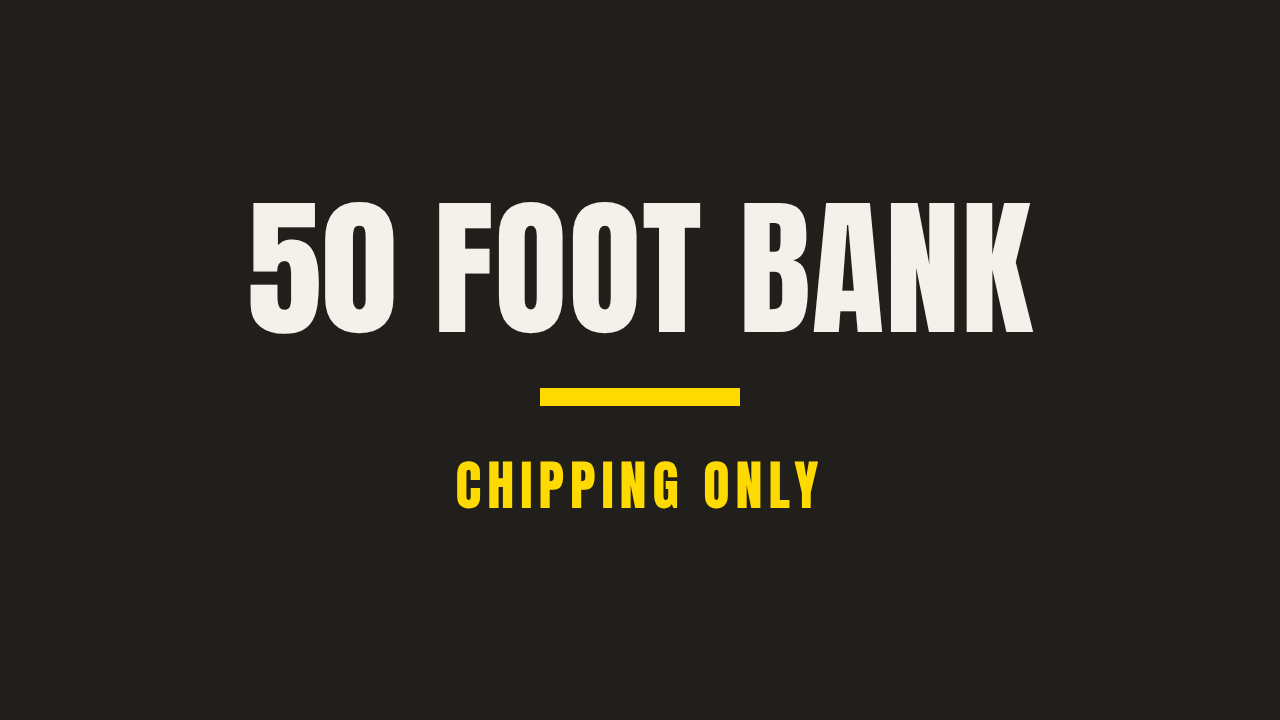
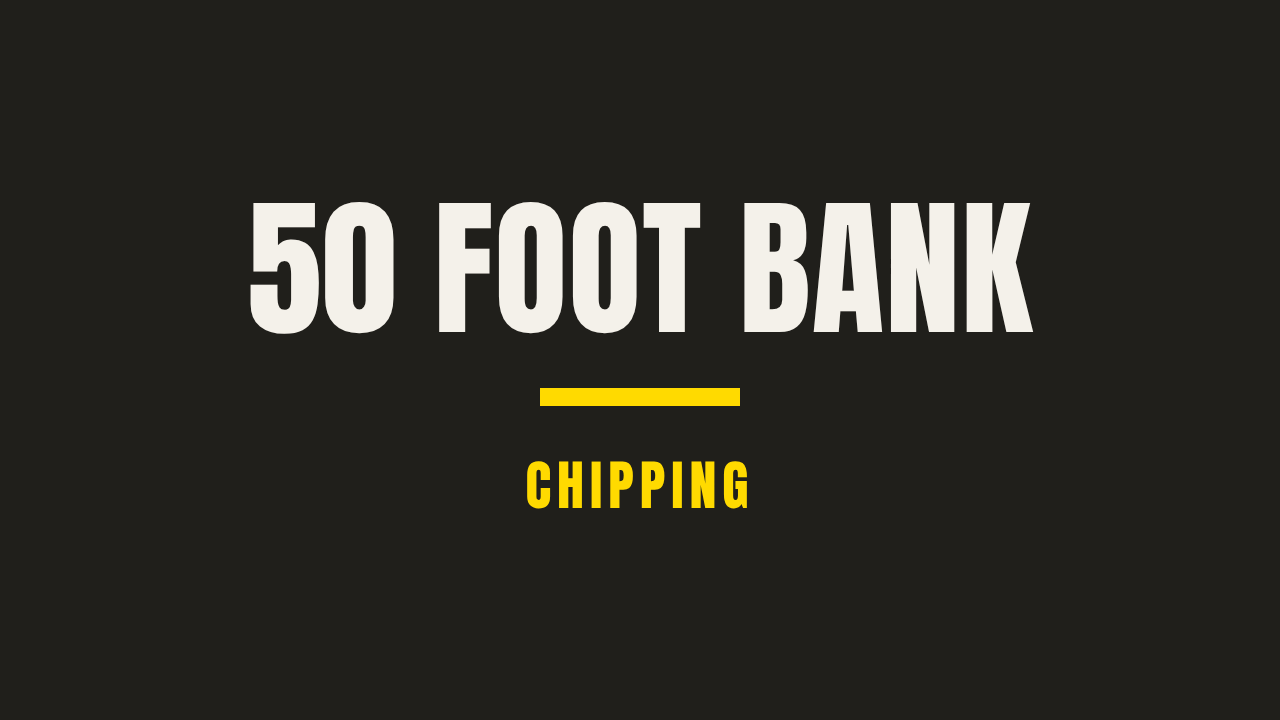
Wedge games: descriptions Chipping / Chipping and putting / Pitching (thumbnails and first screen)
Claude-Session: https://claude.ai/code/session_01DkSaFspKHERjZZRZYzDpGf

Changed region(s): [[0.3438, 0.6417, 0.6562, 0.7028]]

diff --git a/pages/golf-wedge-darts.html b/pages/golf-wedge-darts.html
@@ -323,7 +323,7 @@ body.gated{overflow:hidden}
   <svg class="logo" role="img" aria-label="Macro Golf" viewBox="0 0 1000 540" width="63" height="34"><path id="mgLogoP" fill="#FFD900" fill-rule="evenodd" d="M400 538.9C326 530.5 262.6 470.4 250 396.4C240.3 339.9 255.7 284.9 292.3 245.4L300.7 236.3L295 200.9C291.8 181.4 289.1 164.6 288.8 163.5C288.3 161.1 293.2 150.6 235 278.7C209.4 334.9 188.2 381 187.9 381C187.6 381 165.6 331.7 139 271.5C112.4 211.3 90.3 162.3 90 162.8C89.6 163.2 81.3 209.1 71.4 264.7L53.5 366L26.7 366C1.6 366 -0.1 365.9 0.4 364.2C0.9 362.6 45.4 135.6 63.2 43.8C67.8 20.3 71.7 1 72 1C72.3 1 98.6 60.2 130.5 132.5C162.3 204.8 188.7 263.6 189.1 263.2C189.5 262.8 216.7 203.6 249.6 131.6C297.5 26.9 309.6 1.3 310.2 3.1C310.6 4.4 318.6 49.6 328 103.5C337.4 157.4 345.3 202.1 345.5 202.7C345.8 203.6 347.9 203.1 352.5 201C398.4 180.4 459.4 181.9 502.9 204.6C521 214 542.2 230.7 557.7 247.8L564.8 255.6L546.9 272.8C537.1 282.3 528.7 290 528.3 290C527.8 290 525.5 287.5 523.1 284.5C510.8 269.1 490.7 252.9 474.8 245.5C445.1 231.8 407.3 231.5 375.5 244.7C368.3 247.7 355 255.2 355 256.3C355 256.7 359.3 281.3 364.5 310.9C369.7 340.6 374 365.1 374 365.4C374 365.7 362.2 366 347.7 366L321.4 366L317.1 338.8C311.2 301.6 312 304 308.3 313C297.6 338.6 296 373.3 304 402C315.4 442.5 355.2 479.3 398.3 489.2C412.4 492.5 434 492.2 447.5 488.6C474.8 481.4 500.4 462.1 513.4 438.7C517.3 431.7 522.5 416.9 523.5 409.8L524.1 405L481.8 404.8L439.5 404.5L439.2 380.2L439 356L509.6 356L580.3 356L579.7 374.8C578 430.3 565.2 463.1 532.9 495C498.5 529.1 451.3 544.7 400 538.9ZM651 383.5C617.4 376.3 591.1 352.5 581.4 320.5C577.6 307.9 577.2 281.9 580.8 269.7C588 244.6 607.9 221.6 631.5 210.9C653.4 201 681.3 200.3 704 209.1C725.1 217.2 745.9 237.8 754.9 259.5C765.8 285.6 763.2 318.5 748.5 341.6C736.2 360.9 714.4 376.9 693 382.5C684.1 384.8 659.8 385.4 651 383.5ZM795 294L795 206L808.5 206L822 206L822 281.5L822 357L847.5 357L873 357L873 369.5L873 382L834 382L795 382L795 294ZM898.2 294.2L898.5 206.5L942.2 206.2L986 206L986 218.5L986 231L955.5 231L925 231L925 252L925 273L954.5 273L984 273L984 285.5L984 298L954.5 298L925 298L925 340L925 382L911.5 382L898 382L898.2 294.2ZM686.4 358C724.3 348.3 744.9 305.8 730.1 268.2C723.3 250.9 707.9 236.8 689 230.4C680.3 227.4 659 227.7 649.1 230.9C630.7 237 614 253.7 607.9 272.2C604.7 282 604.4 305.3 607.4 314C613.7 332.4 624.6 345 641.3 353.6C654.2 360.2 671.3 361.9 686.4 358ZM586 182.1C565.8 177.7 547.9 166.4 534.6 149.9C498.3 104.4 515 34.7 568.1 10.1C580.4 4.4 587.5 2.8 603.3 2.3C621.9 1.6 631.3 3.4 646.8 10.7L654 14.1L654 30L654 46L648.8 41.9C641.6 36.5 629 30.4 620.5 28.4C610.9 26.2 593.9 26.9 585.3 30C548.6 42.9 531.3 87.8 549.1 124C554.8 135.4 566.1 146.9 577 152.2C600.1 163.6 625.2 161 646.2 145.1C649.9 142.3 653.2 140 653.5 140C653.8 140 653.9 147.1 653.8 155.8L653.5 171.5L647 174.7C629.6 183.2 604.8 186.2 586 182.1ZM887 182.1C863.5 177 839.1 159.6 827.2 139.4C815.8 120.1 812.1 92.3 818 69.5C826.4 37 855 10.3 888.9 3.5C899.3 1.4 922.1 1.9 931.5 4.5C964.6 13.6 991.7 43.4 997.6 77.2C1005.7 123.4 978.2 167 932.3 180.6C920.2 184.2 899.5 184.9 887 182.1ZM350.4 181.3C354.1 171.8 433.5 3.1 434.1 3.7C434.5 4.1 452.7 44.3 474.5 93C496.4 141.7 514.4 181.8 514.7 182.2C514.9 182.7 508.7 183 500.8 183L486.5 183L477.9 162.7L469.2 142.5L432.5 142.5L395.8 142.5L386.7 162.7L377.5 182.9L363.6 183C351 183 349.8 182.9 350.4 181.3ZM687 92.9L687 4.8L712.8 5.3C741.5 5.8 747.8 6.8 759.5 12.3C770.7 17.7 778.1 26 783 38.5C786.4 47.3 786.5 64.6 783.1 74.3C778.8 86.9 767.8 98.6 756 103.1C753 104.2 749.8 105.5 748.9 105.8C747.7 106.4 753.2 114.5 774.2 143.3C788.9 163.6 801 180.3 801 180.6C801 180.8 793.7 180.9 784.8 180.8L768.6 180.5L743.9 145C723.5 115.8 718.6 109.4 716.5 109.2L714 108.9L714 144.9L714 181L700.5 181L687 181L687 92.9ZM927 156.2C946.1 150 961.9 134.3 968.7 114.8C972.1 105.2 972.9 89 970.6 78C965.7 54.4 946.9 34.7 923.9 28.9C912.4 25.9 895.7 26.5 885.3 30.2C848.6 43.2 831.4 86.7 848.7 123C855.8 137.9 873.7 152.6 890.1 157C899.9 159.7 917.4 159.3 927 156.2ZM458 117.4C458 115.3 433.5 61.1 432.9 61.7C432.2 62.4 407 116.9 407 117.7C407 117.9 418.5 118 432.5 118C446.5 118 458 117.7 458 117.4ZM741.3 83C754.2 79 760.9 68.7 759.8 54.5C758.5 38.4 748.4 31.2 725.8 30.2L714 29.7L714 58L714 86.3L724.2 85.7C730.3 85.4 737.3 84.2 741.3 83Z"/></svg>
   <div class="bar"></div>
   <h2>Wedge Darts<span>Before you start</span></h2>
-  <span class="gtag">Wedges – pitching</span>
+  <span class="gtag">Pitching</span>
   <label class="fld"><span>Your name</span><input id="gName" autocomplete="name" placeholder="First and last name"></label>
   <label class="fld"><span>Target handicap</span><select id="gHc"><option value="">Choose a target</option><option value="Tour">Tour</option><option value="0">Scratch</option><option value="5">5</option><option value="10">10</option><option value="15">15</option><option value="20">20</option><option value="25">25</option><option value="30">30</option></select></label>
   <div class="fld" id="gLvlWrap"><span>Scoring zones</span><div class="opts" id="gLvl"><button type="button" data-v="std" aria-pressed="false"><b>Standard</b><small>3 / 6 / 9 yds, 8 yds left/right. Recommended for most players</small></button><button type="button" data-v="tight" aria-pressed="false"><b>Tight</b><small>2 / 4 / 6 yds, 4 yds left/right. For single-figure players</small></button></div><span class="note" id="gLvlNote" hidden>Game in progress, so the difficulty stays as it is until you start a new one.</span></div>

diff --git a/pages/golf-fifty-ft-bank.html b/pages/golf-fifty-ft-bank.html
@@ -335,7 +335,7 @@ td.up b{color:#1FA855}td.down b{color:#E0352B}
   <svg class="logo" role="img" aria-label="Macro Golf" viewBox="0 0 1000 540" width="63" height="34"><path id="mgLogoP" fill="#FFD900" fill-rule="evenodd" d="M400 538.9C326 530.5 262.6 470.4 250 396.4C240.3 339.9 255.7 284.9 292.3 245.4L300.7 236.3L295 200.9C291.8 181.4 289.1 164.6 288.8 163.5C288.3 161.1 293.2 150.6 235 278.7C209.4 334.9 188.2 381 187.9 381C187.6 381 165.6 331.7 139 271.5C112.4 211.3 90.3 162.3 90 162.8C89.6 163.2 81.3 209.1 71.4 264.7L53.5 366L26.7 366C1.6 366 -0.1 365.9 0.4 364.2C0.9 362.6 45.4 135.6 63.2 43.8C67.8 20.3 71.7 1 72 1C72.3 1 98.6 60.2 130.5 132.5C162.3 204.8 188.7 263.6 189.1 263.2C189.5 262.8 216.7 203.6 249.6 131.6C297.5 26.9 309.6 1.3 310.2 3.1C310.6 4.4 318.6 49.6 328 103.5C337.4 157.4 345.3 202.1 345.5 202.7C345.8 203.6 347.9 203.1 352.5 201C398.4 180.4 459.4 181.9 502.9 204.6C521 214 542.2 230.7 557.7 247.8L564.8 255.6L546.9 272.8C537.1 282.3 528.7 290 528.3 290C527.8 290 525.5 287.5 523.1 284.5C510.8 269.1 490.7 252.9 474.8 245.5C445.1 231.8 407.3 231.5 375.5 244.7C368.3 247.7 355 255.2 355 256.3C355 256.7 359.3 281.3 364.5 310.9C369.7 340.6 374 365.1 374 365.4C374 365.7 362.2 366 347.7 366L321.4 366L317.1 338.8C311.2 301.6 312 304 308.3 313C297.6 338.6 296 373.3 304 402C315.4 442.5 355.2 479.3 398.3 489.2C412.4 492.5 434 492.2 447.5 488.6C474.8 481.4 500.4 462.1 513.4 438.7C517.3 431.7 522.5 416.9 523.5 409.8L524.1 405L481.8 404.8L439.5 404.5L439.2 380.2L439 356L509.6 356L580.3 356L579.7 374.8C578 430.3 565.2 463.1 532.9 495C498.5 529.1 451.3 544.7 400 538.9ZM651 383.5C617.4 376.3 591.1 352.5 581.4 320.5C577.6 307.9 577.2 281.9 580.8 269.7C588 244.6 607.9 221.6 631.5 210.9C653.4 201 681.3 200.3 704 209.1C725.1 217.2 745.9 237.8 754.9 259.5C765.8 285.6 763.2 318.5 748.5 341.6C736.2 360.9 714.4 376.9 693 382.5C684.1 384.8 659.8 385.4 651 383.5ZM795 294L795 206L808.5 206L822 206L822 281.5L822 357L847.5 357L873 357L873 369.5L873 382L834 382L795 382L795 294ZM898.2 294.2L898.5 206.5L942.2 206.2L986 206L986 218.5L986 231L955.5 231L925 231L925 252L925 273L954.5 273L984 273L984 285.5L984 298L954.5 298L925 298L925 340L925 382L911.5 382L898 382L898.2 294.2ZM686.4 358C724.3 348.3 744.9 305.8 730.1 268.2C723.3 250.9 707.9 236.8 689 230.4C680.3 227.4 659 227.7 649.1 230.9C630.7 237 614 253.7 607.9 272.2C604.7 282 604.4 305.3 607.4 314C613.7 332.4 624.6 345 641.3 353.6C654.2 360.2 671.3 361.9 686.4 358ZM586 182.1C565.8 177.7 547.9 166.4 534.6 149.9C498.3 104.4 515 34.7 568.1 10.1C580.4 4.4 587.5 2.8 603.3 2.3C621.9 1.6 631.3 3.4 646.8 10.7L654 14.1L654 30L654 46L648.8 41.9C641.6 36.5 629 30.4 620.5 28.4C610.9 26.2 593.9 26.9 585.3 30C548.6 42.9 531.3 87.8 549.1 124C554.8 135.4 566.1 146.9 577 152.2C600.1 163.6 625.2 161 646.2 145.1C649.9 142.3 653.2 140 653.5 140C653.8 140 653.9 147.1 653.8 155.8L653.5 171.5L647 174.7C629.6 183.2 604.8 186.2 586 182.1ZM887 182.1C863.5 177 839.1 159.6 827.2 139.4C815.8 120.1 812.1 92.3 818 69.5C826.4 37 855 10.3 888.9 3.5C899.3 1.4 922.1 1.9 931.5 4.5C964.6 13.6 991.7 43.4 997.6 77.2C1005.7 123.4 978.2 167 932.3 180.6C920.2 184.2 899.5 184.9 887 182.1ZM350.4 181.3C354.1 171.8 433.5 3.1 434.1 3.7C434.5 4.1 452.7 44.3 474.5 93C496.4 141.7 514.4 181.8 514.7 182.2C514.9 182.7 508.7 183 500.8 183L486.5 183L477.9 162.7L469.2 142.5L432.5 142.5L395.8 142.5L386.7 162.7L377.5 182.9L363.6 183C351 183 349.8 182.9 350.4 181.3ZM687 92.9L687 4.8L712.8 5.3C741.5 5.8 747.8 6.8 759.5 12.3C770.7 17.7 778.1 26 783 38.5C786.4 47.3 786.5 64.6 783.1 74.3C778.8 86.9 767.8 98.6 756 103.1C753 104.2 749.8 105.5 748.9 105.8C747.7 106.4 753.2 114.5 774.2 143.3C788.9 163.6 801 180.3 801 180.6C801 180.8 793.7 180.9 784.8 180.8L768.6 180.5L743.9 145C723.5 115.8 718.6 109.4 716.5 109.2L714 108.9L714 144.9L714 181L700.5 181L687 181L687 92.9ZM927 156.2C946.1 150 961.9 134.3 968.7 114.8C972.1 105.2 972.9 89 970.6 78C965.7 54.4 946.9 34.7 923.9 28.9C912.4 25.9 895.7 26.5 885.3 30.2C848.6 43.2 831.4 86.7 848.7 123C855.8 137.9 873.7 152.6 890.1 157C899.9 159.7 917.4 159.3 927 156.2ZM458 117.4C458 115.3 433.5 61.1 432.9 61.7C432.2 62.4 407 116.9 407 117.7C407 117.9 418.5 118 432.5 118C446.5 118 458 117.7 458 117.4ZM741.3 83C754.2 79 760.9 68.7 759.8 54.5C758.5 38.4 748.4 31.2 725.8 30.2L714 29.7L714 58L714 86.3L724.2 85.7C730.3 85.4 737.3 84.2 741.3 83Z"/></svg>
   <div class="bar"></div>
   <h2>50ft Bank<span>Before you start</span></h2>
-  <span class="gtag">Chipping only</span>
+  <span class="gtag">Chipping</span>
   <label class="fld"><span>Your name</span><input id="gName" autocomplete="name" placeholder="First and last name"></label>
   <label class="fld"><span>Target handicap</span><select id="gHc"><option value="">Choose a target</option><option value="Tour">Tour</option><option value="0">Scratch</option><option value="5">5</option><option value="10">10</option><option value="15">15</option><option value="20">20</option><option value="25">25</option><option value="30">30</option></select></label>
   <div class="fld" id="gLvlWrap"><span>Difficulty</span><div class="opts" id="gLvl"><button type="button" data-v="EMH" aria-pressed="false"><b>Easy · Medium · Hard</b><small>Recommended. Built for 5 handicap and below</small></button><button type="button" data-v="EMM" aria-pressed="false"><b>Easy · Medium · Medium</b><small>For higher handicaps and juniors</small></button></div><span class="note" id="gLvlNote" hidden>Game in progress, so the difficulty stays as it is until you start a new one.</span></div>
